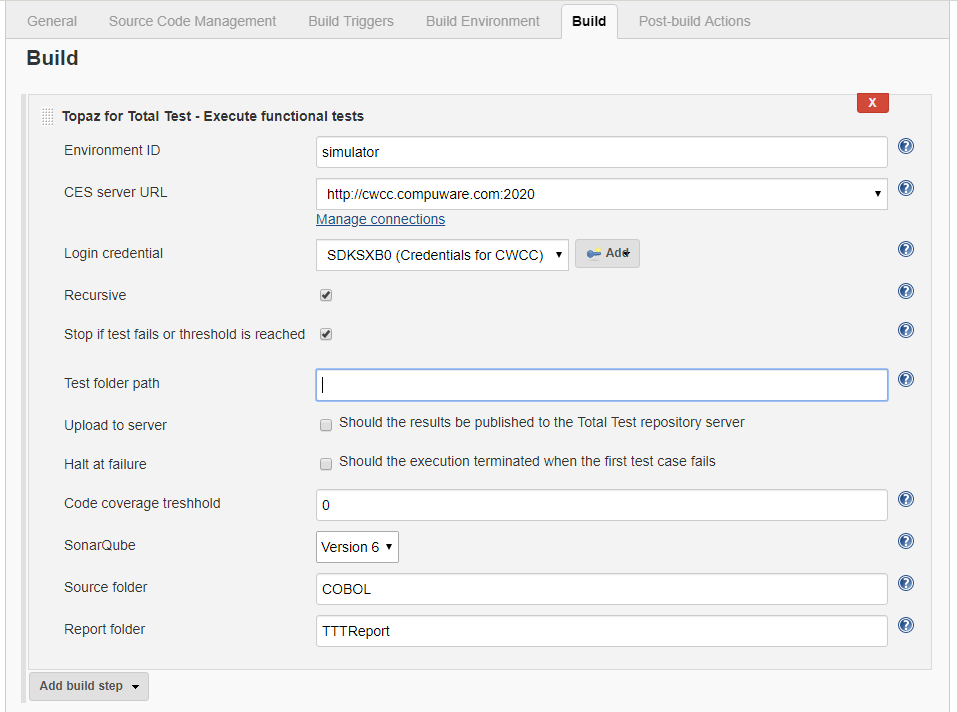
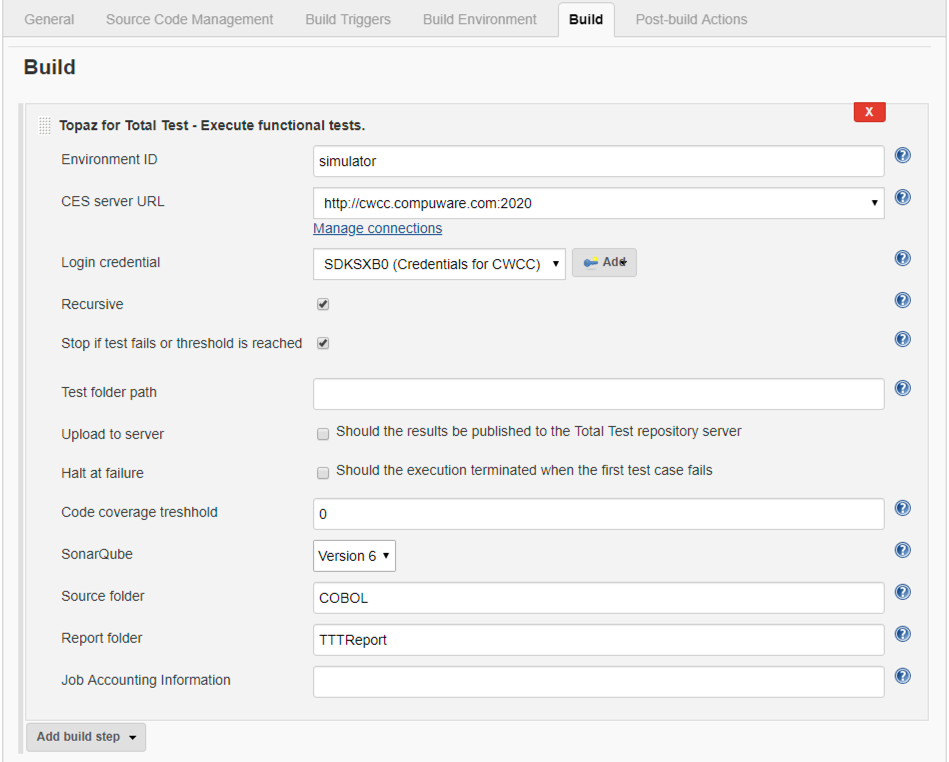
Updated info based on review

diff --git a/docs/tool_configuration/jenkins_usage.md b/docs/tool_configuration/jenkins_usage.md
@@ -13,7 +13,7 @@ The Topaz for Total Test Jenkins plugin makes it easy to configure Topaz for Tot
 
 The test scenarions and/or test suites are defined in the Topaz for Total Test Eclipse client. The CLI used by the Jenkins plugin operates on plain files in the file system on the Jenkins server and expects a complete Topaz for Total Test Test project structure. The test files can be manually copied to the Jenkins server, but typically the will be automatically imported from the Jenkins pipeline.
 
-Test results are produced as native XML reports, as JUNit output and as Sonar Qube reports. The test results can then be viewed with Jenkins (and SonarQube, if installed).
+Test results are produced as native XML reports, as JUnit output and as Sonar Qube reports. The test results can then be viewed with Jenkins (and SonarQube, if installed).
 
 You can setup both Jenkins Freeform pipelines as well as using Jenkins Pipeline scripts with Groovy. Freeform pipelines are easiest to get started with while pipeline scripts are more powerful and flexible.
 
@@ -22,10 +22,10 @@ The Total Test Jenkins plugin has requirements as all other Compuware Jenkins pl
 The following are required to use the Topaz for Total Test Jenkins plugin:
 * Jenkins Credentials Plugin
 * Compuware configuration plugin
-* Topaz Workbench CLI installed on the Jenkins server. Refer to Topaz Workbench CLI `Installation in the Topaz Workbench Installation Guide for instructions.`
+* Topaz Workbench CLI installed on the Jenkins server. Refer to *Topaz Workbench CLI Installation* in the *Topaz Workbench Installation Guide* for instructions
 * Topaz for Total Test licenses
 * Host Communications Interface (HCI) Connection to the LPAR on which tests should run 
-* Enterprise Communication Components (ECC) which contains the Topaz for Total Test `TestRunner Mainframe component.`
+* Enterprise Communication Components (ECC) which contains the Topaz for Total Test `TestRunner Mainframe component`
 * For functional testing - access to the Total Test repository server
 
 
@@ -40,45 +40,47 @@ Follow these steps to prepare Jenkins:
 * Login to Jenkins as Admin
 * Install the Compuware Configuration plugin from list of available plugins.
 * Install the Compuware Topaz for Total Test Plugin from list of available plugins.
-* Select Manage Jenkins
-* On the Manage Jenkins page, click on Configure System
-* Locate the Compuware Configuration section and follow the setup described in [Compuware Configurations](./Jenkins_config.html).
+* Select **Manage Jenkins**
+* On the Manage Jenkins page, click on **Configure System**
+* Locate the **Compuware Configuration** section and follow the setup described in [Compuware Configurations](./Jenkins_config.html).
 
 Now Jenkins can execute Topaz CLI including the Topaz for Total Test Unit and Functional testing CLI from the Topaz for Total Test Jenkins plugin.
 
 
-## Using Total Test Jenkins plugin for functional test 
+## Using Total Test Jenkins plugin for Functional Test 
 
 ### Create a Freestyle Project
 Follow these steps to create a Freestyle Project and name it the same as the Topaz for Total Test Project.
-* Open Jenkins and select 'New Item'
+* Open Jenkins and select **New Item**
 * Enter an appropriate project name and select Freestyle project
-* Click OK. This will open the project for configuration and the General tab displays.
+* Click **OK**. This will open the project for configuration and the General tab displays.
 * In the Description field, enter a comment describing the project.
-* Scroll down to the Build section and click 'Add build step'
-* In the dropdown, select 'Topaz for Total Test - Execute functional tests'. This will show the below properties that have to be filled.
+* Scroll down to the Build section and click **Add build step**
+* In the dropdown, select **Topaz for Total Test - Execute functional tests**. This will show the below properties that have to be filled.
 ![Functional test build step](./images/jenkins_functional1.png)
-* The **environment** field specifies in which environment/lpar the tests should run. The id is found at the Total Test repository server
+* The **Environment** field specifies in which environment/lpar the tests should run. The id is found at the Total Test repository server
 * The **CES URL** must be specified at the Compuware configuration setup and is selected here. The CES server must have the Total Test repository server installed and setup.
 * Login credentials are the TSO credentials to be used for executing the tests
-* Click the Advanced button to see optional/advanced parameters. 
-* By default all functional test scenarios that have a corresponding .xactx file for the specified environment will be found. The pipeline will look into the folder specified by the 'Test folder path' in the advanced section. If this is a relative path or if the path is empty or a ., if will use the Jenkins workspace as the root folder.
-* If Recursive is selected, test cases will be found recursively in sub folders to the Test folder path.
-* If "Stop if test fails..." is selected, the test execution will stop as soon as one of the test cases fails.
+* Click the **Advanced**  button to see optional/advanced parameters. 
+* By default all functional test scenarios that have a corresponding .xactx file for the specified environment will be found. The pipeline will look into the folder specified by the **Test folder path** in the advanced section. If this is a relative path or if the path is empty or a ., if will use the Jenkins workspace as the root folder.
+* If **Recursive** is selected, test cases will be found recursively in sub folders to the Test folder path.
+* If **Stop if test fails...** is selected, the test execution will stop as soon as one of the test cases fails.
 ![Functional test build step](./images/jenkins_functional2.png)
-* Code coverage threshold is used to stop the build if any program has a code coverage % less than this value. Currently this only works for IBM Debug.
-* Sonar Qube versions specifies how the Sonar qube reports are written. There is a difference between version 5 and 6.
-* Source folder is used for the Sonar reports to link to where the source is located.
-* Report folder is the name of the folder to which JUnit output format and SonarQube reports are written. Default is TTTReport.
-* Press SAVE.
-We have now configured the build step for running Total Test for functional testing. We can also add a post build step that allows us to see the result as JUnit output - a often used view of test results in Jenkins. See a section below for how to do this.
+* **Code coverage threshold** is used to stop the build if any program has a code coverage % less than this value. Currently this only works for IBM Debug.
+* **Sonar Qube** versions specifies how the Sonar qube reports are written. There is a difference between version 5 and 6.
+* **Source folder** is used for the Sonar reports to link to where the source is located.
+* **Report folder** is the name of the folder to which JUnit output format and SonarQube reports are written. Default is TTTReport.
+* **Job Accounting Information** (optional). Use the accounting information parameter to enter an account number and any other accounting information that your installation requires.
+* Press **SAVE**.
+
+We have now configured the build step for running Total Test for functional testing. We can also add a post build step that allows us to see the result as JUnit output - a often used view of test results in Jenkins. See [Add step for JUnit result](#add-step-for-jenkins-to-process-the-test-results-files) for how to do this.
 
 ### Create a Pipeline Project
 Follow these steps to create a Pipeline Project and name it the same as the Topaz for Total Test Project.
-* Open Jenkins and select 'New Item'
-* Enter an appropriate project name and select Pipeline.
-* Click OK. This will open the project for configuration and the General tab displays.
-* Copy the following information and paste it into the Pipeline script field:
+* Open Jenkins and select **New Item**
+* Enter an appropriate project name and select **Pipeline**.
+* Click **OK**. This will open the project for configuration and the General tab displays.
+* Copy the following information and paste it into the **Pipeline script** field:
 ```groovy
 stage("Run Topaz for Total Test - functional test")
 {
@@ -89,17 +91,17 @@ stage("Run Topaz for Total Test - functional test")
   }
 }
 ```
-* Press SAVE
-* Select Configure
-* Select the 'Pipeline Syntax' link below the script field
+* Press **SAVE**
+* Select **Configure**
+* Select the **Pipeline Syntax** link below the script field
 * Select 'totaltest: Topaz for Total Test - Execute functional tests'  from the Build Step drop-down list.
-* The same fields are available as for setting up the freeform project. See above for details on each field. Fill the fields as illustrated below
+* The same fields are available as for setting up the Freestyle project. See [Create a Freestyle project](#create-a-freestyle-project) for details on each field. Fill the fields as illustrated below
 ![Functional test build step](./images/jenkins_functional4.png)
-* Click the Generate Pipeline Script button.
+* Click the **Generate Pipeline Script** button.
 * Copy the generated script step as illustrated below into your clipboard.
 ![Functional test build step](./images/jenkins_functional5.png)
-* Return to the Project and select Configure.
-* In the Script field, add a new line after the node{ line.
+* Return to the Project and select **Configure**.
+* In the Script field, add a new line after the **node{** line.
 * Paste the generated script step from the clipboard into the new line. You would now have a pipeline script looking like this
 ```groovy
 stage("Run Topaz for Total Test")
@@ -114,48 +116,48 @@ stage("Run Topaz for Total Test")
   }
 }
 ```
-* Press SAVE.
+* Press **SAVE**.
 
 :::tip
-The above functional test examples shows how you setup a pipeline with one build step that will execute all test scenarios in the Jenkins workspace that have a .xactx file with the environment id similar to the one defined in the build step. This means that you will have to have the files in the workspace before the build step and that is typically done by integrating with a SCM like Git. It is also possible to setup an absolute path in the 'Test folder path' to use static files on the Jenkins server. You can look into our example pipelines to get inspiration and understanding. 
+The above Functional Test examples shows how you setup a pipeline with one build step that will execute all test scenarios in the Jenkins workspace that have a .xactx file with the Environment ID similar to the one defined in the build step. This means that you will have to have the files in the workspace before the build step and that is typically done by integrating with a SCM like Git. It is also possible to setup an absolute path in the **Test folder path** to use static files on the Jenkins server. You can look into our example pipelines to get inspiration and understanding. 
 :::
 
 ### Add step for Jenkins to process the test results files
 Complete the following steps to let users see test results as JUnit output after the pipeline has executed.
 * Open the Project page for the Jenkins project.
-* Click Configure.
-* In the "Post-build Actions", click 'Add post build action'.
-* Select the 'Publish JUnit test result report'
-*Enter `TTTReport/*.xml` in the Test reports XML file. This holds the Total Test result files. If the report output folder has been customized in the pipeline, that value must be used here instead.
-* Press SAVE.
-* Click the Build Now button to ensure the Test Results files are copied correctly into the Jenkins WORKSPACE TTTUnit Folder.
+* Click **Configure**.
+* In the "Post-build Actions", click **Add post build action**.
+* Select the **Publish JUnit test result report**
+*Enter `TTTReport/*.xml` in the *Test reports XMLs field*. This holds the Total Test result files. If the report output folder has been customized in the pipeline, that value must be used here instead.
+* Press **SAVE**.
+* Click the **Build Now** button to ensure the Test Results files are copied correctly into the Jenkins WORKSPACE TTTUnit Folder.
 * Notice whether the build completed with Success Status (blue ball), Warning Status (yellow ball), or Error Status (red ball).
 * Click on the Build # to review build results. Notice the new 'Test Result' tab/menu point.
-* Click on 'Test Result' to display the results.
+* Click on **Test Result** to display the results.
 * Drill down to view the details of the individual test case. 
 
 
-## Using Total Test Jenkins plugin for unit test 
+## Using Total Test Jenkins plugin for Unit Test 
 
 ### Create a Freestyle Project
 Follow these steps to create a Freestyle Project and name it the same as the Topaz for Total Test Project.
-* Open Jenkins and select 'New Item'
-* Enter an appropriate project name and select Freestyle project
-* Click OK. This will open the project for configuration and the General tab displays.
-* In the Description field, enter a comment describing the project.
-* Scroll down to the Build section and click 'Add build step'
-* In the dropdown, select 'Topaz for Total Test - Execute unit tests'. This will show the below properties that have to be filled.
+* Open Jenkins and select **New Item**
+* Enter an appropriate project name and select **Freestyle project**
+* Click **OK**. This will open the project for configuration and the General tab displays.
+* In the **Description** field, enter a comment describing the project.
+* Scroll down to the Build section and click **Add build step**
+* In the dropdown, select **Topaz for Total Test - Execute unit tests**. This will show the below properties that have to be filled.
 ![Unit test build step](./images/jenkins_unit1.png)
-* Click on the Code Coverage button to display the Code Coverage options. Optional, only required if Code Coverage is requested.
-* Click on the Execute Options button to display the Execute options: Use Stubs, Delete temporary files, and High level qualifier.
+* Click on the **Code Coverage** button to display the Code Coverage options. Optional, only required if Code Coverage is requested.
+* Click on the **Execute Options** button to display the Execute options: Use Stubs, Delete temporary files, and High level qualifier.
 ![Unit test build step](./images/jenkins_unit2.png)
 * Gather the information for the required fields from the Topaz for Total Test project and enter it in the fields:
-  * **Host Connection**: Select the desired host connection, from the drop-down list. The Manage Connections link can be used to define a new host connection.
+  * **Host Connection**: Select the desired host connection, from the drop-down list. The *Manage Connections* link can be used to define a new host connection.
   * **Login Credentials** : Select or add your mainframe login credentials (userID and password) to connect to the host with.
   * **Test Project Folder** : The Topaz for Total Test project folder path (from Topaz for Total Test Project Folder Properties). This location must be accessible to Jenkins. Read/write access is required to all files in this location.
-  * **Test Scenario/Suite** : Test suite or test scenario name for the specified project (from Topaz for Total Test Project Folder) or select all_scenarios from the list.
+  * **Test Scenario/Suite** : Test suite or test scenario name for the specified project (from Topaz for Total Test Project Folder) or select **all_scenarios** from the list.
   * **JCL** : The file name containing the JCL to submit (from Topaz for Total Test Run Test Scenario dialog). NOTE: If you use the Topaz for Total Test Preference option to hold the JobCard information you need to have executed the Test Suite or Test Scenario at least once in the Topaz for Total Test interface for this file to get generated.
-  * **Main executable program type** : Select the main executable program (this is the program specified on the 'EXEC PGM=' JCL statement in runner*.JCL) for Code Coverage: 
+  * **Main executable program type** : Select the main executable program (this is the program specified on the `EXEC PGM=` JCL statement in runner*.JCL) for Code Coverage: 
     * **Live DB2** when the main program is IKJEFT01 or IKJEFT1B 
     * **TOTALTEST** when the main program is TTTRUNNR Live 
     * **IMS when** the main program is DFSRRC00
@@ -166,15 +168,15 @@ Follow these steps to create a Freestyle Project and name it the same as the Top
   * **Use Stubs** : Check if the test should use stubs (from Topaz for Total Test Run Test Scenario dialog).
   * **Delete temporary files** : Check if temporary files are to be deleted (from Topaz for Total Test Run Test Scenario dialog).
   * **High Level Qualifier** : Optional high level qualifier to be used when allocating datasets during test execution (from Topaz for Total Test Preferences).
-  * Press SAVE.
-We have now configured the build step for running Total Test. We can also add a post build step that allows us to see the result as JUnit output - a often used view of test results in Jenkins. See the chapter below for how to do this.
+  * Press **SAVE**.
+We have now configured the build step for running Total Test. We can also add a post build step that allows us to see the result as JUnit output - a often used view of test results in Jenkins. See [Add step for Jenkins to process the test results files](#add-step-for-jenkins-to-process-the-test-results-files) for how to do this.
 
 ### Create a Pipeline Project
 Follow these steps to create a Pipeline Project and name it the same as the Topaz for Total Test Project.
-* Open Jenkins and select 'New Item'
-* Enter an appropriate project name and select Pipeline.
-* Click OK. This will open the project for configuration and the General tab displays.
-* Copy the following information and paste it into the Pipeline script field:
+* Open Jenkins and select **New Item**
+* Enter an appropriate project name and select **Pipeline**.
+* Click **OK**. This will open the project for configuration and the General tab displays.
+* Copy the following information and paste it into the Pipeline Script field:
 ```groovy
 stage("Run Topaz for Total Test")
 {
@@ -185,17 +187,17 @@ stage("Run Topaz for Total Test")
   }
 }
 ```
-* Press SAVE
-* Select Configure
-* Select the 'Pipeline Syntax' link below the script field
-* Select 'totaltestUT: Topaz for Total Test - Execute unit tests'  from the Build Step drop-down list.
-* The same fields are available as for setting up the freeform project. See above for details on each field. Fill the fields as illustrated below
+* Press **SAVE**
+* Select **Configure**
+* Select the **Pipeline Syntax** link below the script field
+* Select **totaltestUT: Topaz for Total Test - Execute unit tests**  from the Build Step drop-down list.
+* The same fields are available as for setting up the Freestyle project. See [Create a Freestyle Project]("create-a-freestyle-project) details on each field. Fill the fields as illustrated below
 ![Unit test build step](./images/jenkins_unit4.png)
-* Click the Generate Pipeline Script button.
+* Click the **Generate Pipeline Script** button.
 * Copy the generated script step as illustrated below into your clipboard.
 ![Unit test build step](./images/jenkins_unit5.png)
-* Return to the Project and select Configure.
-* In the Script field, add a new line after the node{ line.
+* Return to the Project and select **Configure**.
+* In the Script field, add a new line after the **node{** line.
 * Paste the generated script step from the clipboard into the new line. You would now have a pipeline script looking like this
 ```groovy
 stage("Run Topaz for Total Test")
@@ -210,7 +212,7 @@ stage("Run Topaz for Total Test")
   }
 }
 ```
-* Press SAVE.
+* Press **SAVE**.
 
 :::tip
 The above simple unit test examples shows how you setup a pipeline with one build step that will execute a test scenario from a specific hardcoded folder. In a real life pipeline you would have multiple steps that would checkout your code and test cases from SCMs, and then build and test the application. You can look into our example pipelines to get inspiration and understanding. 
@@ -219,19 +221,23 @@ The above simple unit test examples shows how you setup a pipeline with one buil
 ### Run a pipeline
 * Return to the Jenkins Home page.
 * In the list of project, find the project that you want to run and click on it. It will show a page where you see details about the project.
-* At the project page, click 'Build Now'. You will see a new Build start in the Build History area.
-* When the built has completed, click on the Build # for the completed build in the Build History area.
-* Click on Console Output to review the Console Output for the Build #.
+* At the project page, click **Build Now**. You will see a new Build start in the Build History area.
+* When the built has completed, click on the **Build #** for the completed build in the Build History area.
+* Click on **Console Output** to review the Console Output for the Build #.
 * Scroll to the bottom and look for "SUCCESS" or "FAILURE".
 
 ### Add additional information in the console output
 If you are having problems with getting a Test Suite to run from Topaz for Total Test Jenkins Plugin you may find it helpful to put additional information in the console output. Also if your Test Case isn't running it may be helpful to turn debug information on the TestRunner component by modifying a Runner.jcl file or your test jcl file for your Test Suite.
+
 `TotalTestCLI.bat`
+
 * Find the TotalTestCLI.bat file in the location where the Topaz for Total Test CLI was installed.
 * Open TotalTestCLI.bat.
 * Change `@echo off` to `@echo on`.
 * Save TotalTestCLI.bat.
+
 `Runner.jcl`
+
 * Find the TestRunner JCL for the Test Run
 * Open the TestRunner JCL file
 * Change DEBUG(OFF) to DEBUG(ON).
@@ -240,15 +246,15 @@ If you are having problems with getting a Test Suite to run from Topaz for Total
 ### Add step for Jenkins to process the test results files
 Complete the following steps to let users see test results as JUnit output after the pipeline has executed.
 * Open the Project page for the Jenkins project.
-* Click Configure.
-* In the "Post-build Actions", click 'Add post build action'.
-* Select the 'Publish JUnit test result report'
+* Click **Configure**.
+* In the "Post-build Actions", click **Add post build action**.
+* Select the **Publish JUnit test result report**
 * For unit testing Enter `TTTUnit/*.xml` and optionally `TTTSONAR/*.xml` in the Test reports XML file as illustrated below. These holds the Total Test result files. 
 ![Unit test build step](./images/jenkins_unit3.png)
-* Press SAVE.
+* Press **SAVE**.
 * Click the Build Now button to ensure the Test Results files are copied correctly into the Jenkins WORKSPACE TTTUnit Folder.
 * Notice whether the build completed with Success Status (blue ball), Warning Status (yellow ball), or Error Status (red ball).
-* Click on the Build # to review build results.
+* Click on the **Build #** to review build results.
 * Notice the new 'Test Result' tab/menu point.
-* Click on 'Test Result' to display the results.
+* Click on **Test Result** to display the results.
 * Drill down to view the details of the individual test case. 
